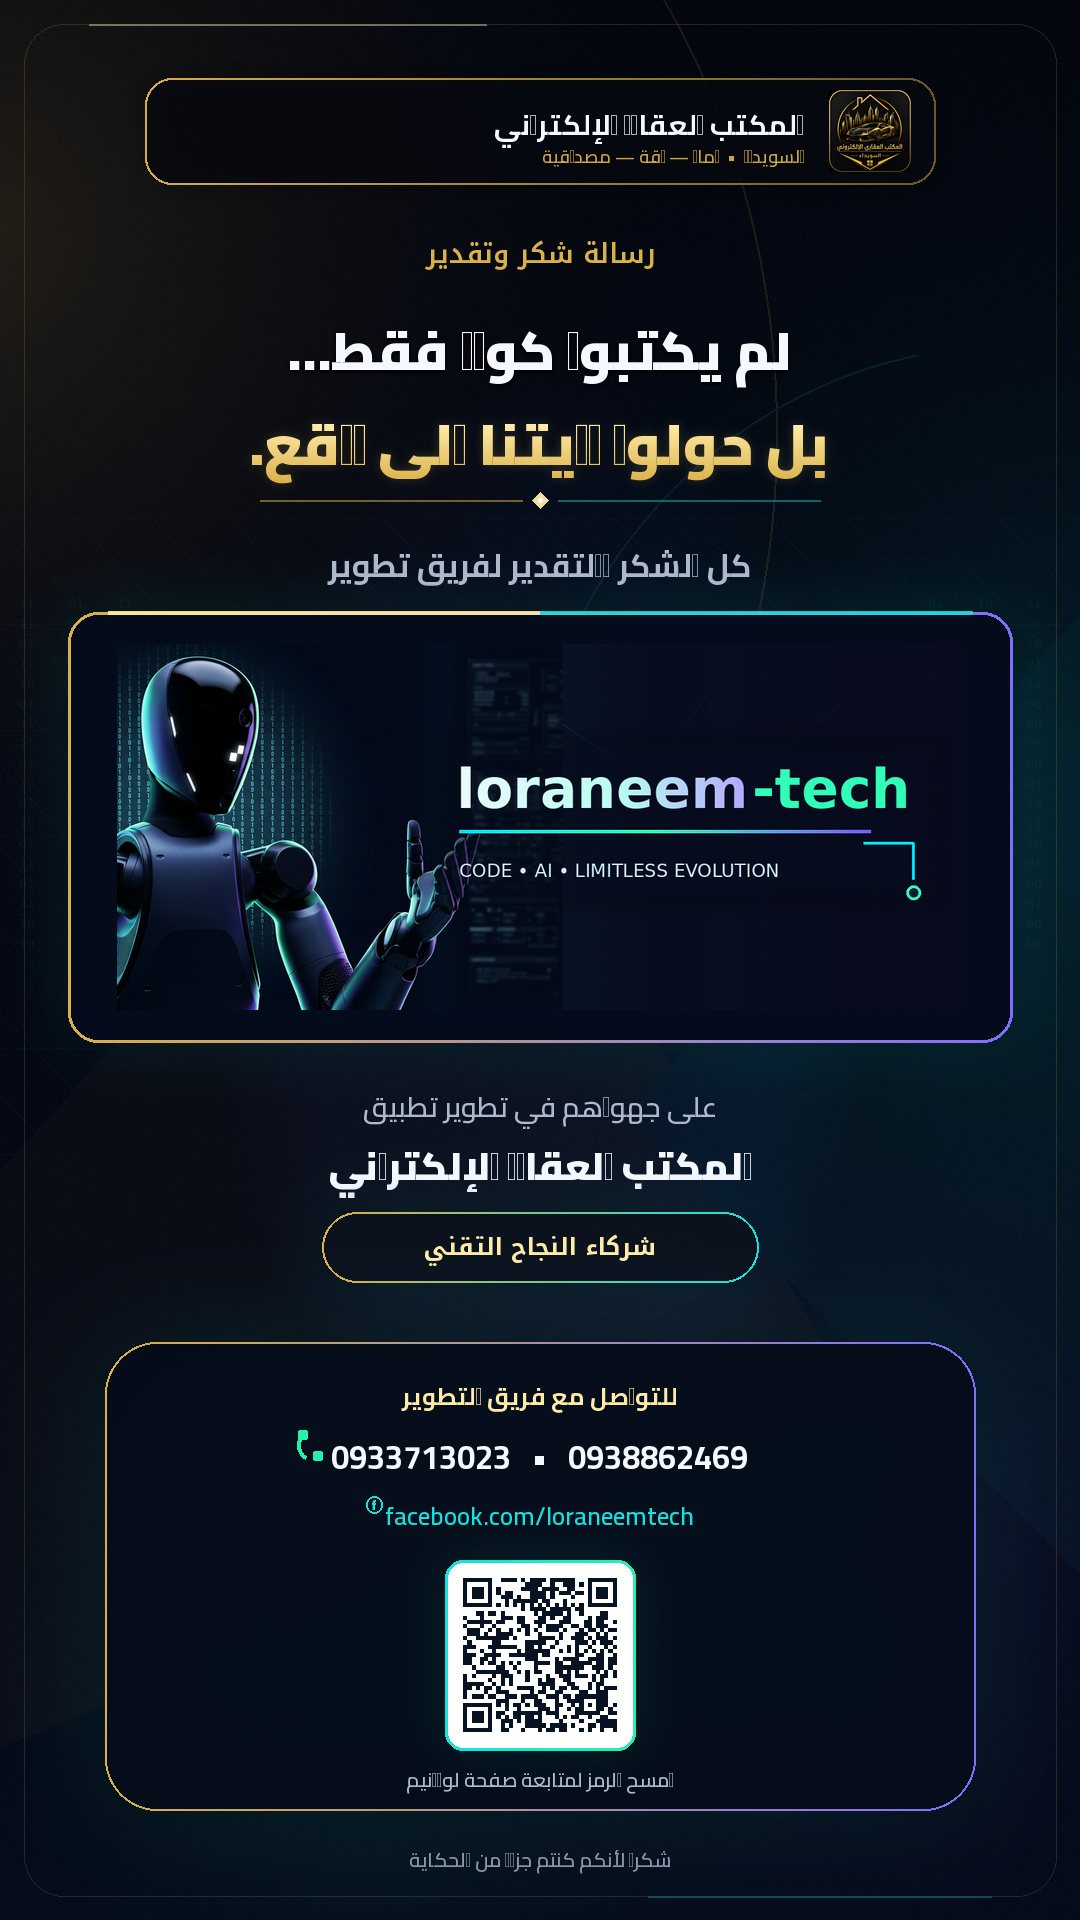
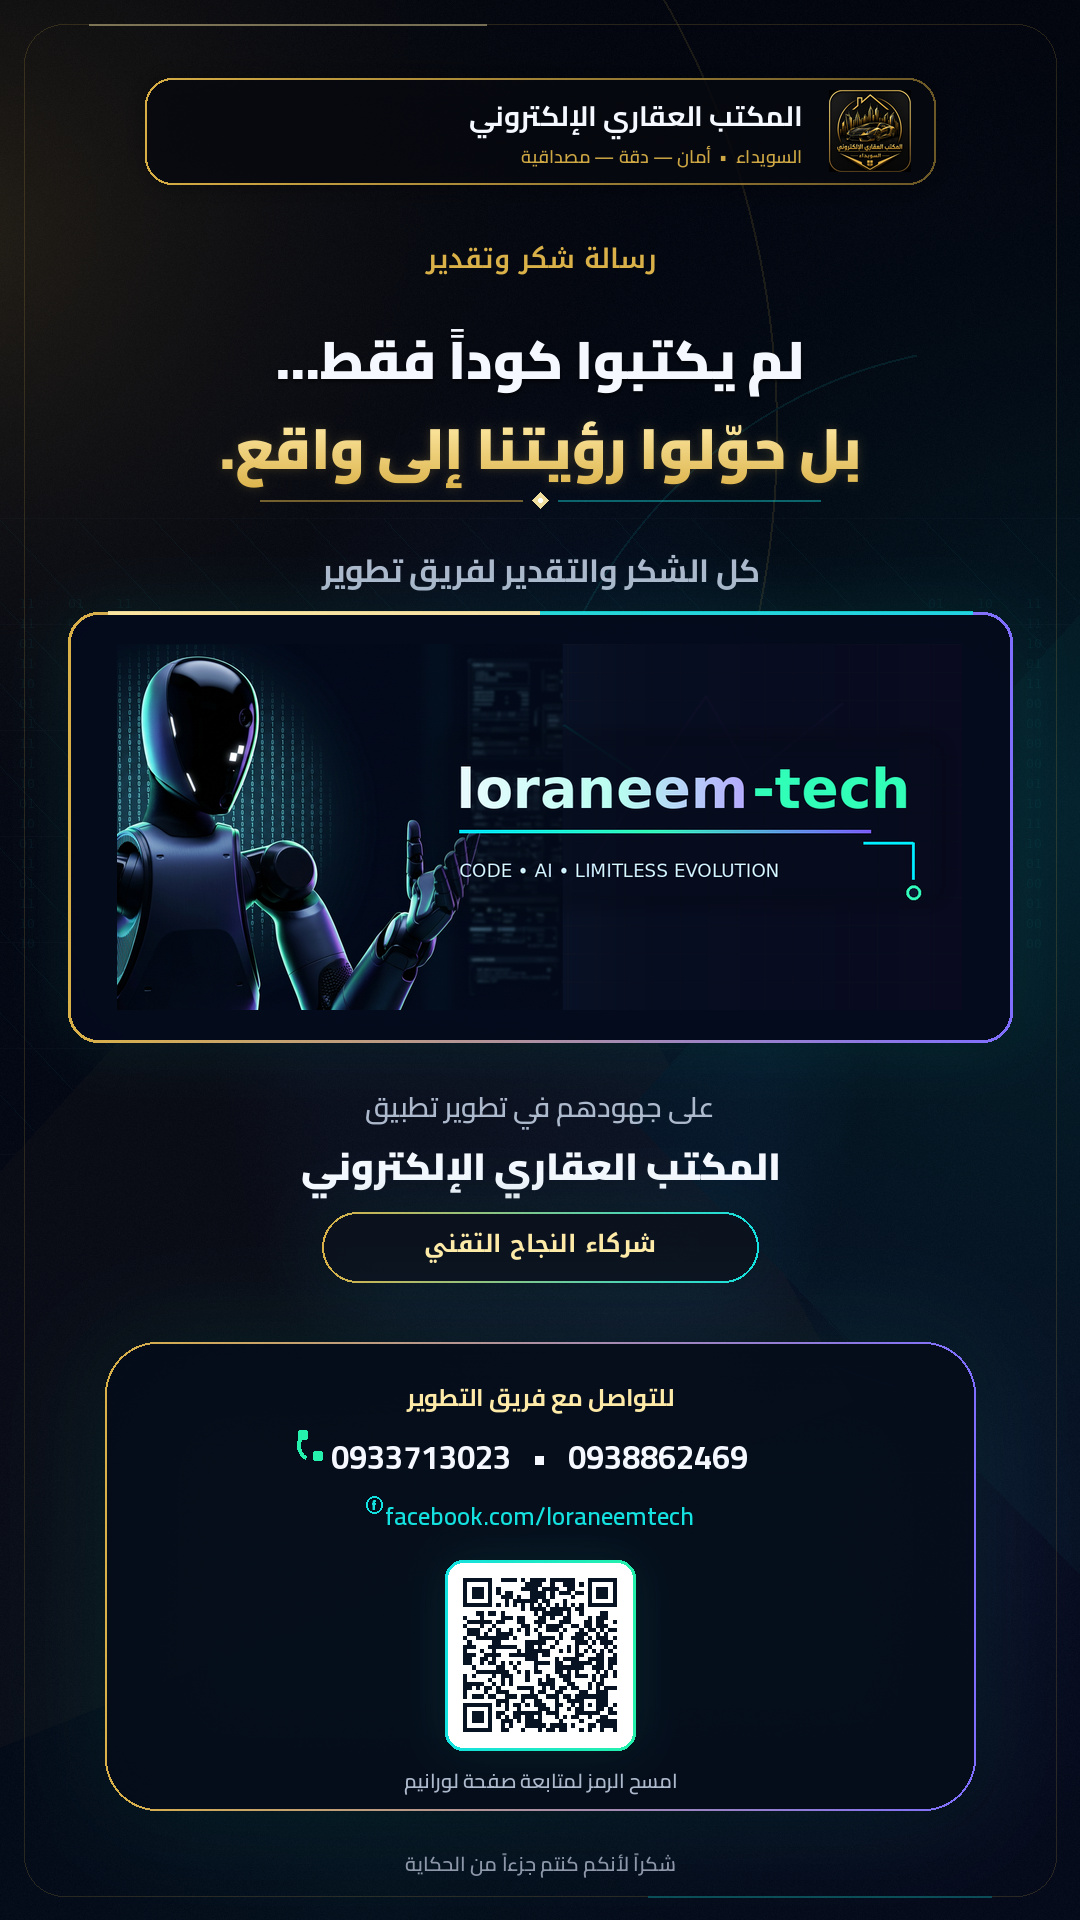
fix(marketing): إظهار جميع المحارف العربية في بوست Loraneem

diff --git a/marketing/thanks_loraneem/build_thanks_post.py b/marketing/thanks_loraneem/build_thanks_post.py
@@ -6,7 +6,7 @@ contain-style scaling. Arabic shaping dependencies are installed outside the
 repository:
 
   python3 -m pip install --target /tmp/posterdeps \
-    pillow numpy arabic-reshaper python-bidi qrcode
+    pillow numpy qrcode uharfbuzz freetype-py
   PYTHONPATH=/tmp/posterdeps python3 marketing/thanks_loraneem/build_thanks_post.py
 """
 from __future__ import annotations
@@ -16,10 +16,10 @@ import random
 from functools import lru_cache
 from pathlib import Path
 
-import arabic_reshaper
+import freetype
 import numpy as np
 import qrcode
-from bidi.algorithm import get_display
+import uharfbuzz as hb
 from PIL import Image, ImageChops, ImageDraw, ImageFilter, ImageFont
 
 ROOT = Path(__file__).resolve().parents[2]
@@ -56,10 +56,89 @@ def font(size: int, family: str = "cairo", weight: str = "Regular") -> ImageFont
     return f
 
 
+WEIGHT_VALUES = {
+    "ExtraLight": 200,
+    "Light": 300,
+    "Regular": 400,
+    "Medium": 500,
+    "SemiBold": 600,
+    "Bold": 700,
+    "ExtraBold": 800,
+    "Black": 900,
+}
+
+
+@lru_cache(maxsize=4)
+def _font_bytes(family: str) -> bytes:
+    return (CAIRO if family == "cairo" else KUFI).read_bytes()
+
+
 @lru_cache(maxsize=256)
-def shape_ar(text: str) -> str:
-    """Return display-order Arabic glyphs for Pillow builds without libraqm."""
-    return get_display(arabic_reshaper.reshape(text))
+def render_arabic_mask(text: str, size: int, family: str,
+                       weight: str) -> Image.Image:
+    """Shape and rasterize Arabic with HarfBuzz + FreeType.
+
+    Pillow in the production sandbox has no libraqm. The former fallback used
+    Unicode Presentation Forms, but Cairo intentionally omits several of those
+    legacy code points; isolated alifs, waws and hamzas therefore appeared as
+    narrow tofu rectangles. HarfBuzz shapes the original logical Arabic into
+    actual font glyph IDs, preserving every letter, ligature and diacritic.
+    """
+    path = CAIRO if family == "cairo" else KUFI
+    weight_value = WEIGHT_VALUES.get(weight, 400)
+
+    hb_face = hb.Face(_font_bytes(family))
+    hb_font = hb.Font(hb_face)
+    hb_font.scale = (size * 64, size * 64)
+    hb_font.set_variations({"wght": weight_value})
+
+    buffer = hb.Buffer()
+    buffer.add_str(text)
+    buffer.guess_segment_properties()
+    hb.shape(hb_font, buffer, {"kern": True, "liga": True, "calt": True})
+
+    ft_face = freetype.Face(str(path))
+    ft_face.set_pixel_sizes(0, size)
+    try:
+        coords = [weight_value, 0] if family == "cairo" else [weight_value]
+        ft_face.set_var_design_coords(coords)
+    except (AttributeError, freetype.FT_Exception):
+        pass
+
+    glyphs: list[tuple[int, int, np.ndarray]] = []
+    pen_x = 0
+    pen_y = 0
+    load_flags = freetype.FT_LOAD_RENDER | freetype.FT_LOAD_TARGET_NORMAL
+    for info, pos in zip(buffer.glyph_infos, buffer.glyph_positions):
+        ft_face.load_glyph(info.codepoint, load_flags)
+        bitmap = ft_face.glyph.bitmap
+        raw = np.asarray(bitmap.buffer, dtype=np.uint8)
+        if bitmap.rows and bitmap.pitch:
+            pixels = raw.reshape((bitmap.rows, abs(bitmap.pitch)))[:, :bitmap.width]
+        else:
+            pixels = np.zeros((0, 0), dtype=np.uint8)
+        gx = round((pen_x + pos.x_offset) / 64) + ft_face.glyph.bitmap_left
+        gy = -round((pen_y + pos.y_offset) / 64) - ft_face.glyph.bitmap_top
+        glyphs.append((gx, gy, pixels))
+        pen_x += pos.x_advance
+        pen_y += pos.y_advance
+
+    visible = [(gx, gy, pixels) for gx, gy, pixels in glyphs if pixels.size]
+    if not visible:
+        return Image.new("L", (1, 1), 0)
+    min_x = min(gx for gx, _, _ in visible)
+    max_x = max(gx + pixels.shape[1] for gx, _, pixels in visible)
+    min_y = min(gy for _, gy, _ in visible)
+    max_y = max(gy + pixels.shape[0] for _, gy, pixels in visible)
+    pad = 3
+    result = np.zeros((max_y - min_y + pad * 2,
+                       max_x - min_x + pad * 2), dtype=np.uint8)
+    for gx, gy, pixels in visible:
+        x0 = gx - min_x + pad
+        y0 = gy - min_y + pad
+        roi = result[y0:y0 + pixels.shape[0], x0:x0 + pixels.shape[1]]
+        np.maximum(roi, pixels, out=roi)
+    return Image.fromarray(result, "L")
 
 
 def rgba_layer(size: tuple[int, int]) -> Image.Image:
@@ -78,6 +157,20 @@ def centered_x(draw: ImageDraw.ImageDraw, text: str, fnt: ImageFont.FreeTypeFont
     return int((width - (box[2] - box[0])) / 2 - box[0])
 
 
+def _place_mask(mask: Image.Image, canvas_size: tuple[int, int],
+                x: int, y: int) -> Image.Image:
+    placed = Image.new("L", canvas_size, 0)
+    placed.paste(mask, (x, y))
+    return placed
+
+
+def _color_mask(mask: Image.Image, color: tuple[int, int, int],
+                opacity: float = 1.0) -> Image.Image:
+    layer = Image.new("RGBA", mask.size, (*color, 0))
+    layer.putalpha(mask.point(lambda p: round(p * opacity)))
+    return layer
+
+
 def draw_centered(
     canvas: Image.Image,
     text: str,
@@ -92,19 +185,35 @@ def draw_centered(
     stroke: int = 0,
     stroke_fill: tuple[int, int, int] = (0, 0, 0),
 ) -> tuple[int, int, int, int]:
+    if arabic:
+        glyph_mask = render_arabic_mask(text, size, family, weight)
+        x = (canvas.width - glyph_mask.width) // 2
+        # Match Pillow's former top bearing so the approved composition keeps
+        # its exact rhythm while HarfBuzz preserves marks above the letters.
+        actual_y = y + round(size * .50)
+        mask = _place_mask(glyph_mask, canvas.size, x, actual_y)
+        if shadow:
+            shadow_mask = mask.filter(ImageFilter.GaussianBlur(max(2, size / 24)))
+            shadow_layer = _color_mask(shadow_mask, (0, 0, 0), .78)
+            canvas.alpha_composite(shadow_layer, (0, max(2, size // 32)))
+        if stroke:
+            outline = mask.filter(ImageFilter.MaxFilter(stroke * 2 + 1))
+            canvas.alpha_composite(_color_mask(outline, stroke_fill))
+        canvas.alpha_composite(_color_mask(mask, color))
+        return (x, actual_y, x + glyph_mask.width, actual_y + glyph_mask.height)
+
     layer = rgba_layer(canvas.size)
     d = ImageDraw.Draw(layer)
-    visual = shape_ar(text) if arabic else text
     fnt = font(size, family, weight)
-    x = centered_x(d, visual, fnt, canvas.width)
-    box = d.textbbox((x, y), visual, font=fnt, stroke_width=stroke)
+    x = centered_x(d, text, fnt, canvas.width)
+    box = d.textbbox((x, y), text, font=fnt, stroke_width=stroke)
     if shadow:
         glow = rgba_layer(canvas.size)
         gd = ImageDraw.Draw(glow)
-        gd.text((x, y + max(2, size // 32)), visual, font=fnt, fill=(0, 0, 0, 210),
+        gd.text((x, y + max(2, size // 32)), text, font=fnt, fill=(0, 0, 0, 210),
                 stroke_width=stroke + max(1, size // 45), stroke_fill=(0, 0, 0, 180))
         canvas.alpha_composite(glow.filter(ImageFilter.GaussianBlur(max(2, size / 24))))
-    d.text((x, y), visual, font=fnt, fill=(*color, 255), stroke_width=stroke,
+    d.text((x, y), text, font=fnt, fill=(*color, 255), stroke_width=stroke,
            stroke_fill=(*stroke_fill, 255))
     canvas.alpha_composite(layer)
     return box
@@ -123,21 +232,24 @@ def draw_gradient_text(
     arabic: bool = True,
     glow_color: tuple[int, int, int] | None = None,
 ) -> tuple[int, int, int, int]:
-    visual = shape_ar(text) if arabic else text
-    fnt = font(size, family, weight)
-    mask = Image.new("L", canvas.size, 0)
-    md = ImageDraw.Draw(mask)
-    x = centered_x(md, visual, fnt, canvas.width)
-    box = md.textbbox((x, y), visual, font=fnt)
-    md.text((x, y), visual, font=fnt, fill=255)
+    if arabic:
+        glyph_mask = render_arabic_mask(text, size, family, weight)
+        x = (canvas.width - glyph_mask.width) // 2
+        actual_y = y + round(size * .50)
+        mask = _place_mask(glyph_mask, canvas.size, x, actual_y)
+        box = (x, actual_y, x + glyph_mask.width, actual_y + glyph_mask.height)
+    else:
+        fnt = font(size, family, weight)
+        mask = Image.new("L", canvas.size, 0)
+        md = ImageDraw.Draw(mask)
+        x = centered_x(md, text, fnt, canvas.width)
+        box = md.textbbox((x, y), text, font=fnt)
+        md.text((x, y), text, font=fnt, fill=255)
 
     if glow_color:
         blur = mask.filter(ImageFilter.GaussianBlur(max(5, size / 12)))
-        glow = Image.new("RGBA", canvas.size, (*glow_color, 0))
-        glow.putalpha(blur.point(lambda p: int(p * 0.22)))
-        canvas.alpha_composite(glow)
+        canvas.alpha_composite(_color_mask(blur, glow_color, .22))
 
-    yy = np.linspace(0, 1, canvas.height, dtype=np.float32)[:, None]
     # Normalize gradient to the actual text vertical extent, not the full image.
     top_y, bottom_y = max(0, box[1]), min(canvas.height - 1, box[3])
     rel = np.clip((np.arange(canvas.height)[:, None] - top_y) /
@@ -305,16 +417,17 @@ def draw_sender(canvas: Image.Image, box: tuple[int, int, int, int], logo_size: 
                 x1-24, y0+(y1-y0-logo_size)//2+logo_size)
     paste_contained(canvas, OFFICE_LOGO, logo_box)
 
-    layer = rgba_layer(canvas.size)
-    d = ImageDraw.Draw(layer)
-    title = shape_ar("المكتب العقاري الإلكتروني")
-    subtitle = shape_ar("السويداء  •  أمان — دقة — مصداقية")
-    tf = font(title_size, "cairo", "Bold")
-    sf = font(sub_size, "cairo", "SemiBold")
+    title_mask = render_arabic_mask(
+        "المكتب العقاري الإلكتروني", title_size, "cairo", "Bold")
+    subtitle_mask = render_arabic_mask(
+        "السويداء  •  أمان — دقة — مصداقية", sub_size, "cairo", "SemiBold")
     tx = logo_box[0] - 25
-    d.text((tx, y0 + int((y1-y0)*.19)), title, font=tf, fill=(*WHITE, 255), anchor="ra")
-    d.text((tx, y0 + int((y1-y0)*.58)), subtitle, font=sf, fill=(*GOLD, 238), anchor="ra")
-    canvas.alpha_composite(layer)
+    title_y = y0 + int((y1-y0)*.23)
+    subtitle_y = y0 + int((y1-y0)*.61)
+    canvas.alpha_composite(_color_mask(title_mask, WHITE),
+                           (tx-title_mask.width, title_y))
+    canvas.alpha_composite(_color_mask(subtitle_mask, GOLD, .94),
+                           (tx-subtitle_mask.width, subtitle_y))
 
 
 def draw_divider(canvas: Image.Image, y: int, width: int) -> None:
@@ -333,14 +446,12 @@ def draw_badge(canvas: Image.Image, box: tuple[int, int, int, int], size: int) -
     rounded_panel(canvas, box, radius=(box[3]-box[1])//2,
                   fill=(11, 17, 29, 225), border_a=GOLD,
                   border_b=CYAN, border_width=2, glow=(26, 223, 215))
-    text = shape_ar("شركاء النجاح التقني")
-    layer = rgba_layer(canvas.size)
-    d = ImageDraw.Draw(layer)
-    fnt = font(size, "kufi", "Bold")
+    text_mask = render_arabic_mask(
+        "شركاء النجاح التقني", size, "kufi", "Bold")
     cx = (box[0] + box[2]) // 2
     cy = (box[1] + box[3]) // 2
-    d.text((cx, cy), text, font=fnt, fill=(*GOLD_LIGHT, 255), anchor="mm")
-    canvas.alpha_composite(layer)
+    canvas.alpha_composite(_color_mask(text_mask, GOLD_LIGHT),
+                           (cx-text_mask.width//2, cy-text_mask.height//2))
 
 
 def draw_phone_icon(draw: ImageDraw.ImageDraw, cx: int, cy: int, scale: float,

diff --git a/marketing/thanks_loraneem/README_AR.md b/marketing/thanks_loraneem/README_AR.md
@@ -26,6 +26,7 @@
   - `0933713023`
   - `0938862469`
 - رابط الصفحة المختصر داخل التصميم، والرابط الكامل القابل للنقر في الكابشن.
+- النص العربي يُشكّل عبر HarfBuzz ويُرسم عبر FreeType، لضمان ظهور الحروف المتصلة والهمزات والتشكيل كاملاً من دون محارف بديلة.
 
 ## توثيق الأرقام
 
@@ -40,7 +41,7 @@
 
 ```bash
 python3 -m pip install --target /tmp/posterdeps \
-  pillow numpy arabic-reshaper python-bidi qrcode
+  pillow numpy qrcode uharfbuzz freetype-py
 PYTHONPATH=/tmp/posterdeps \
   python3 marketing/thanks_loraneem/build_thanks_post.py
 ```
